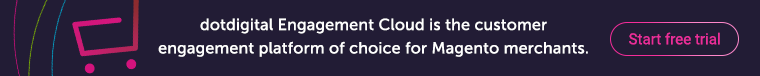
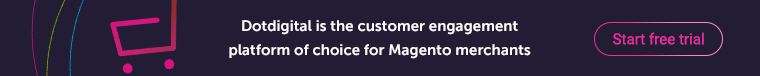
Merged PR 32725: Branding and casing updates
## What's being changed

Brand references in customer-facing text have been updated.

## Why it's being changed

The 'Engagement Cloud' platform name has been phased out, and dotdigital is now spelled with a capital D.

## How to review / test this change

- Carefully check the changeset in case of accidental regressions

Related work items: #156503, #156506

Changed region(s): [[0.0303, 0.0, 0.9684, 1.0]]

diff --git a/view/adminhtml/email/system_alert.html b/view/adminhtml/email/system_alert.html
@@ -12,19 +12,19 @@
 
 <ul>
     {{if cron_total}}
-    <li>{{trans "We've found %total error(s) in the following dotdigital cron task(s): %summary." total=$cron_total summary=$cron_summary}}</li>
+    <li>{{trans "We've found %total error(s) in the following Dotdigital cron task(s): %summary." total=$cron_total summary=$cron_summary}}</li>
     {{/if}}
     {{if importer_total}}
-    <li>{{trans "We've found %total error(s) in the following dotdigital import task(s): %summary." total=$importer_total summary=$importer_summary}}</li>
+    <li>{{trans "We've found %total error(s) in the following Dotdigital import task(s): %summary." total=$importer_total summary=$importer_summary}}</li>
     {{/if}}
     {{if campaign_total}}
-    <li>{{trans "We've found %total error(s) in the following dotdigital campaign send(s): %summary." total=$campaign_total summary=$campaign_summary}}</li>
+    <li>{{trans "We've found %total error(s) in the following Dotdigital campaign send(s): %summary." total=$campaign_total summary=$campaign_summary}}</li>
     {{/if}}
     {{if automation_total}}
-    <li>{{trans "We've found %total error(s) in the following dotdigital automation task(s): %summary." total=$automation_total summary=$automation_summary}}</li>
+    <li>{{trans "We've found %total error(s) in the following Dotdigital automation task(s): %summary." total=$automation_total summary=$automation_summary}}</li>
     {{/if}}
     {{if smtp_total}}
-    <li>{{trans "We've found %total error(s) in recent dotdigital SMTP mail sends." total=$smtp_total}}</li>
+    <li>{{trans "We've found %total error(s) in recent Dotdigital SMTP mail sends." total=$smtp_total}}</li>
     {{/if}}
 </ul>
 

diff --git a/view/adminhtml/web/js/confirm.js b/view/adminhtml/web/js/confirm.js
@@ -14,7 +14,7 @@ require([
         var content;
 
         if (element.attr('id') === 'sync_settings_addressbook_allow_non_subscribers') {
-            content = $t('You are about to allow dotdigital to import customers that haven\'t explicitly opted into your emails. This means the Customers and Guests address books will contain contacts that you might not be able to reach out to, depending on the applicable regulations. Do you wish to continue?');
+            content = $t('You are about to allow Dotdigital to import customers that haven\'t explicitly opted into your emails. This means the Customers and Guests address books will contain contacts that you might not be able to reach out to, depending on the applicable regulations. Do you wish to continue?');
         } else {
             content = $t('You are about to enable this feature for customers that haven\'t explicitly opted into your emails. Do you wish to continue?');
         }

diff --git a/Console/Command/ImporterSyncsCommand.php b/Console/Command/ImporterSyncsCommand.php
@@ -46,7 +46,7 @@ class ImporterSyncsCommand extends Command
     {
         $this
             ->setName('dotdigital:sync')
-            ->setDescription(__('Run syncs to populate email_ tables before importing to Engagement Cloud'))
+            ->setDescription(__('Run syncs to populate email_ tables before importing to Dotdigital'))
             ->addArgument(
                 'sync',
                 InputArgument::OPTIONAL,
@@ -129,7 +129,7 @@ class ImporterSyncsCommand extends Command
     {
         $helper = $this->getHelper('question');
         $syncQuestion = new ChoiceQuestion(
-            __('Please select an Engagement Cloud sync to run')->getText(),
+            __('Please select a Dotdigital sync to run')->getText(),
             array_column($this->syncProvider->getAvailableSyncs(), 'title')
         );
         $syncQuestion->setErrorMessage(__('Please select a sync')->getText());

diff --git a/Block/Adminhtml/Rules/Edit/Tab/Coupons.php b/Block/Adminhtml/Rules/Edit/Tab/Coupons.php
@@ -9,7 +9,7 @@ class Coupons extends \Magento\Framework\View\Element\Template implements \Magen
      */
     public function getTabLabel()
     {
-        return __('dotdigital Coupon URL Builder');
+        return __('Dotdigital Coupon URL Builder');
     }
 
     /**
@@ -17,7 +17,7 @@ class Coupons extends \Magento\Framework\View\Element\Template implements \Magen
      */
     public function getTabTitle()
     {
-        return __('dotdigital Coupon URL Builder');
+        return __('Dotdigital Coupon URL Builder');
     }
 
     /**

diff --git a/Controller/Adminhtml/Run/Automapdatafields.php b/Controller/Adminhtml/Run/Automapdatafields.php
@@ -79,7 +79,7 @@ class Automapdatafields extends \Magento\Backend\App\AbstractAction
                 ->addNoticeMessage('There were some errors mapping data fields. Please check the connector log.');
         } else {
             $this->messageManager
-                ->addSuccessMessage('All data fields created and mapped to your Engagement Cloud account.');
+                ->addSuccessMessage('All data fields created and mapped to your Dotdigital account.');
         }
 
         $this->_redirect($redirectUrl);

diff --git a/Block/Adminhtml/Config/Trial.php b/Block/Adminhtml/Config/Trial.php
@@ -14,8 +14,8 @@ class Trial extends \Magento\Config\Block\System\Config\Form\Fieldset
     {
         return <<<EOT
 <a href="{$this->getUrl('dotdigitalgroup_email/studio')}">
-    <img style="margin-bottom: 15px" src="{$this->getViewFileUrl('Dotdigitalgroup_Email::images/banner.png')}" 
-        alt="Open an Engagement Cloud account">
+    <img style="margin-bottom: 15px" src="{$this->getViewFileUrl('Dotdigitalgroup_Email::images/banner.png')}"
+        alt="Open a Dotdigital account">
 </a>
 EOT;
     }

diff --git a/Controller/Email/Accountcallback.php b/Controller/Email/Accountcallback.php
@@ -92,7 +92,7 @@ class Accountcallback extends \Magento\Framework\App\Action\Action
         $addressBookStatus = $this->trialSetup->createAddressBooks();
         $syncStatus = $this->trialSetup->enableSyncForTrial();
 
-        $this->helper->log('Engagement Cloud account creation', [
+        $this->helper->log('Dotdigital account creation', [
             'api_username' => $params['apiusername'],
             'api_endpoint' => $params['apiendpoint'],
             'chat_account' => $chatAccountCreated

diff --git a/Controller/Adminhtml/Dashboard/Index.php b/Controller/Adminhtml/Dashboard/Index.php
@@ -40,7 +40,7 @@ class Index extends \Magento\Backend\App\Action
         $resultPage->setActiveMenu('Dotdigitalgroup_Email::dashboard');
         $resultPage->addBreadcrumb(__('Dashboard'), __('Dashboard '));
         $resultPage->addBreadcrumb(__('Dashboard'), __('Dashboard'));
-        $resultPage->getConfig()->getTitle()->prepend(__('dotdigital Engagement Cloud Dashboard'));
+        $resultPage->getConfig()->getTitle()->prepend(__('Dotdigital Dashboard'));
 
         return $resultPage;
     }

diff --git a/Block/Adminhtml/Rules/Edit/Tab/Coupons/Form.php b/Block/Adminhtml/Rules/Edit/Tab/Coupons/Form.php
@@ -79,7 +79,7 @@ EOT;
         if (!($this->helper->isConnectorEnabledAtAnyLevel())) {
             $commentField['after_element_html'] = <<<EOT
 <small id="ddg-notice_coupon-builder-disabled">
-An active Engagement Cloud account is required to use this feature.
+An active Dotdigital account is required to use this feature.
 Please enable your account
 <a href="{$this->getUrl('adminhtml/system_config/edit', ['section' => 'connector_api_credentials'])}">here</a>.
 </small>

diff --git a/Model/ResourceModel/Campaign.php b/Model/ResourceModel/Campaign.php
@@ -148,7 +148,7 @@ class Campaign extends \Magento\Framework\Model\ResourceModel\Db\AbstractDb
     {
         $bind = [
             'send_status' => \Dotdigitalgroup\Email\Model\Campaign::SENT,
-            'message' => 'Check sending status in Engagement Cloud',
+            'message' => 'Check sending status in Dotdigital',
             'updated_at' => $this->datetime->gmtDate()
         ];
         $this->getConnection()

diff --git a/Console/Command/ImportDataCommand.php b/Console/Command/ImportDataCommand.php
@@ -33,7 +33,7 @@ class ImportDataCommand extends Command
     protected function configure()
     {
         $this->setName('dotdigital:migrate')
-            ->setDescription('Migrate data into email_ tables to sync with Engagement Cloud')
+            ->setDescription('Migrate data into email_ tables to sync with Dotdigital')
             ->addOption(
                 'table',
                 't',

diff --git a/Controller/Adminhtml/Studio/Index.php b/Controller/Adminhtml/Studio/Index.php
@@ -17,7 +17,7 @@ class Index extends \Magento\Backend\App\AbstractAction
     public function execute()
     {
         $this->_view->loadLayout();
-        $this->_view->getPage()->getConfig()->getTitle()->set(__('Engagement Cloud'));
+        $this->_view->getPage()->getConfig()->getTitle()->set(__('Dotdigital'));
         $this->_view->renderLayout();
     }
 }
